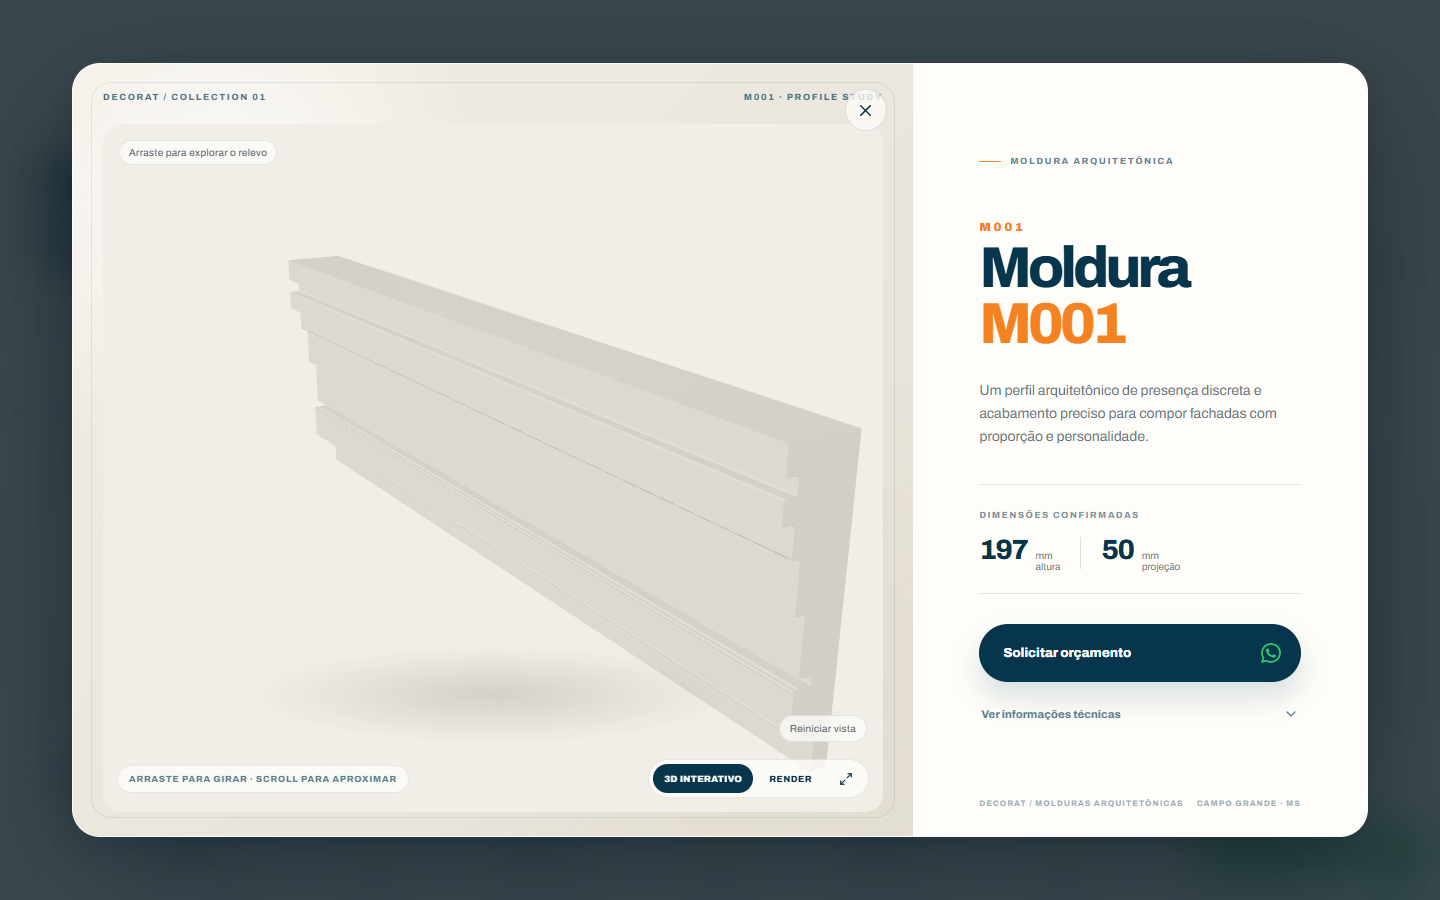
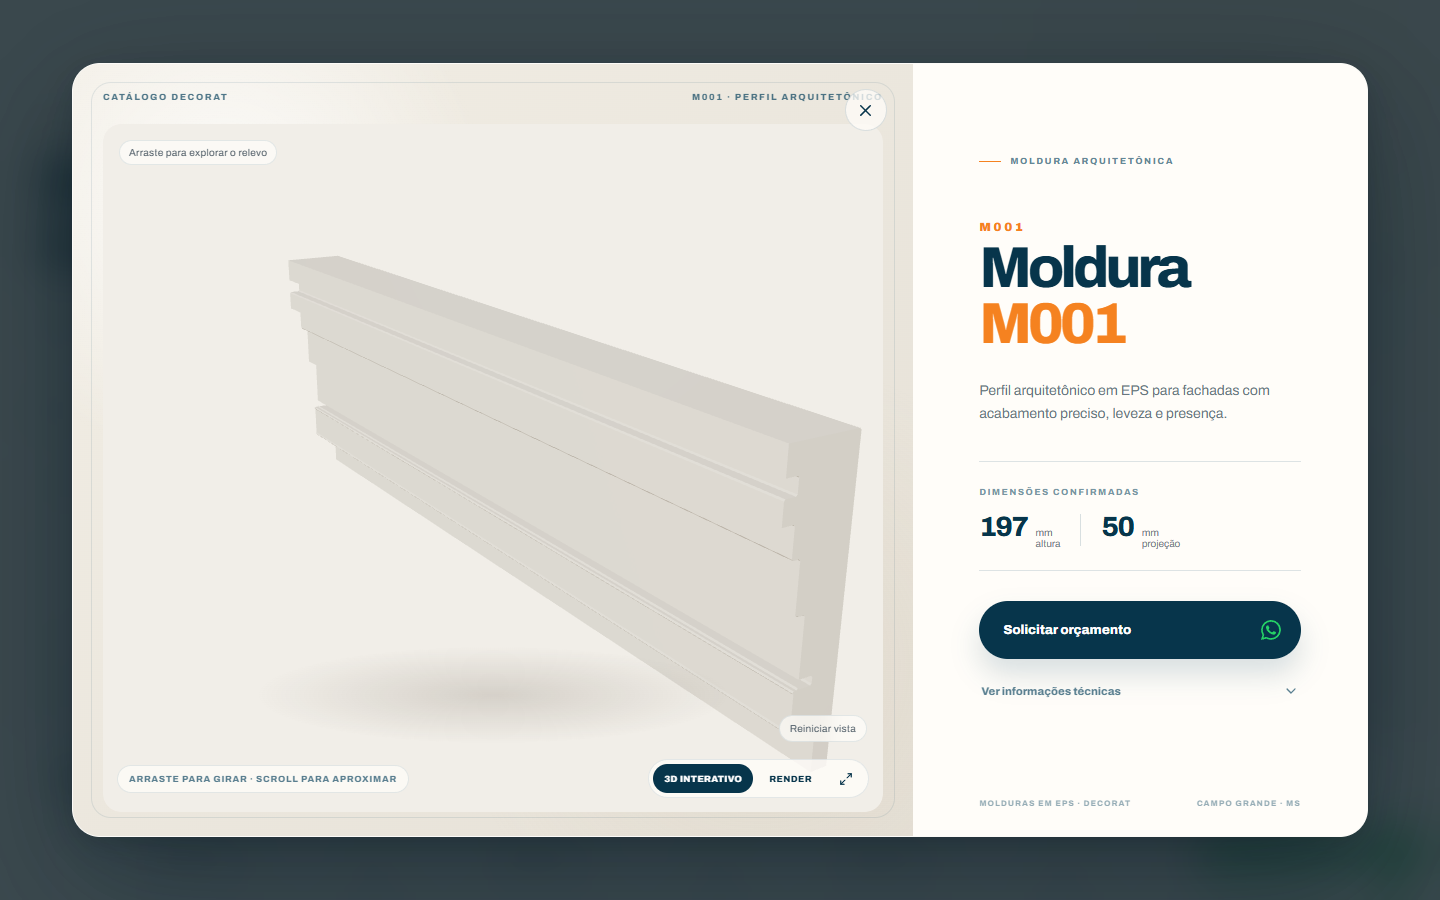
fix: refine premium showroom mobile layout

diff --git a/src/components/MolduraModal.tsx b/src/components/MolduraModal.tsx
@@ -71,8 +71,8 @@ function PremiumM001Showroom({ product, onClose, onSelectWhatsApp }: MolduraModa
       <div className={`decorat-m001-showroom ${isFullscreen ? "is-fullscreen" : ""}`}>
         <section className="decorat-m001-visual" ref={visualRef}>
           <div className="decorat-m001-visual-meta">
-            <span>DECORAT / COLLECTION 01</span>
-            <span>M001 · PROFILE STUDY</span>
+            <span>CATÁLOGO DECORAT</span>
+            <span>M001 · PERFIL ARQUITETÔNICO</span>
           </div>
 
           <button onClick={onClose} className="decorat-m001-close" aria-label="Fechar showroom">
@@ -85,6 +85,8 @@ function PremiumM001Showroom({ product, onClose, onSelectWhatsApp }: MolduraModa
                 glbUrl={product.modelo3d}
                 heightMm={product.altura_mm}
                 widthMm={product.largura_mm}
+                fitFactor={0.76}
+                mobileFitFactor={0.58}
               />
             ) : (
               <div className="decorat-m001-render">
@@ -111,7 +113,7 @@ function PremiumM001Showroom({ product, onClose, onSelectWhatsApp }: MolduraModa
             <p className="decorat-m001-code">{product.codigo}</p>
             <h2>Moldura <em>{product.codigo}</em></h2>
             <p className="decorat-m001-description">
-              Um perfil arquitetônico de presença discreta e acabamento preciso para compor fachadas com proporção e personalidade.
+              Perfil arquitetônico em EPS para fachadas com acabamento preciso, leveza e presença.
             </p>
 
             <div className="decorat-m001-dimensions">
@@ -142,7 +144,7 @@ function PremiumM001Showroom({ product, onClose, onSelectWhatsApp }: MolduraModa
           </div>
 
           <div className="decorat-m001-info-footer">
-            <span>DECORAT / MOLDURAS ARQUITETÔNICAS</span>
+            <span>MOLDURAS EM EPS · DECORAT</span>
             <span>Campo Grande · MS</span>
           </div>
         </aside>

diff --git a/src/app/catalogo-digital.css b/src/app/catalogo-digital.css
@@ -708,6 +708,8 @@
 .decorat-m001-stage > .moldura-3d-shell,
 .decorat-m001-stage > .decorat-m001-render,
 .decorat-m001-stage > div:has(.moldura-3d-shell) {
+  position: absolute;
+  inset: 0;
   width: 100%;
   height: 100%;
   min-height: 0;
@@ -715,7 +717,7 @@
 
 .decorat-m001-stage .moldura-3d-shell {
   min-height: 0;
-  height: 100%;
+  height: auto;
   border: 0;
   border-radius: 18px;
   background: transparent;
@@ -1029,12 +1031,19 @@
   .decorat-m001-stage-footer { display: block; right: 10px; bottom: 10px; left: 10px; }
   .decorat-m001-stage-footer > span { display: inline-block; margin-bottom: 8px; font-size: 8px; }
   .decorat-m001-view-controls { width: fit-content; margin-left: auto; }
-  .decorat-m001-info { min-height: 0; padding: 34px 24px 22px; }
+  .decorat-m001-info { min-height: 0; padding: 30px 20px 20px; }
   .decorat-m001-info-body { max-width: none; }
-  .decorat-m001-code { margin-top: 28px; }
-  .decorat-m001-info h2 { font-size: 46px; }
-  .decorat-m001-description { margin: 20px 0 28px; }
-  .decorat-m001-info-footer { margin-top: 42px; }
+  .decorat-m001-code { margin-top: 26px; font-size: 10px; letter-spacing: .18em; }
+  .decorat-m001-info h2 { font-size: 34px; line-height: 1; letter-spacing: -.055em; }
+  .decorat-m001-description { max-width: 300px; margin: 18px 0 24px; font-size: 12px; line-height: 1.55; }
+  .decorat-m001-dimensions { padding: 16px 0 18px; }
+  .decorat-m001-dimensions > span { font-size: 8px; }
+  .decorat-m001-dimensions > div { margin-top: 10px; gap: 14px; }
+  .decorat-m001-dimensions strong { font-size: 22px; }
+  .decorat-m001-dimensions small { font-size: 9px; }
+  .decorat-m001-quote { min-height: 50px; margin-top: 22px; padding-inline: 19px; font-size: 12px; }
+  .decorat-m001-technical-toggle { margin-top: 9px; font-size: 10px; }
+  .decorat-m001-info-footer { margin-top: 30px; font-size: 7px; }
 }
 
 @media (max-width: 520px) {

diff --git a/src/components/Moldura3DViewer.tsx b/src/components/Moldura3DViewer.tsx
@@ -9,9 +9,11 @@ interface Moldura3DViewerProps {
   glbUrl: string;
   heightMm?: number | null;
   widthMm?: number | null;
+  fitFactor?: number;
+  mobileFitFactor?: number;
 }
 
-export default function Moldura3DViewer({ glbUrl }: Moldura3DViewerProps) {
+export default function Moldura3DViewer({ glbUrl, fitFactor = 0.76, mobileFitFactor }: Moldura3DViewerProps) {
   const containerRef = useRef<HTMLDivElement>(null);
   const resetRef = useRef<(() => void) | null>(null);
   const [loading, setLoading] = useState(true);
@@ -75,7 +77,7 @@ export default function Moldura3DViewer({ glbUrl }: Moldura3DViewerProps) {
       const cameraDistance = Math.max(
         sphere.radius / Math.tan(verticalFov / 2),
         sphere.radius / Math.tan(horizontalFov / 2),
-      ) * 0.76;
+      ) * (window.innerWidth <= 680 ? (mobileFitFactor ?? fitFactor) : fitFactor);
       // Approach from the profile end first, with enough negative-Z angle to
       // keep the stepped decorative side visible across the length.
       camera.position.copy(center).add(viewDirection.multiplyScalar(cameraDistance));
@@ -151,7 +153,7 @@ export default function Moldura3DViewer({ glbUrl }: Moldura3DViewerProps) {
       if (container.contains(renderer.domElement)) container.removeChild(renderer.domElement);
       resetRef.current = null;
     };
-  }, [glbUrl]);
+  }, [fitFactor, glbUrl, mobileFitFactor]);
 
   return (
     <div className="moldura-3d-shell">
